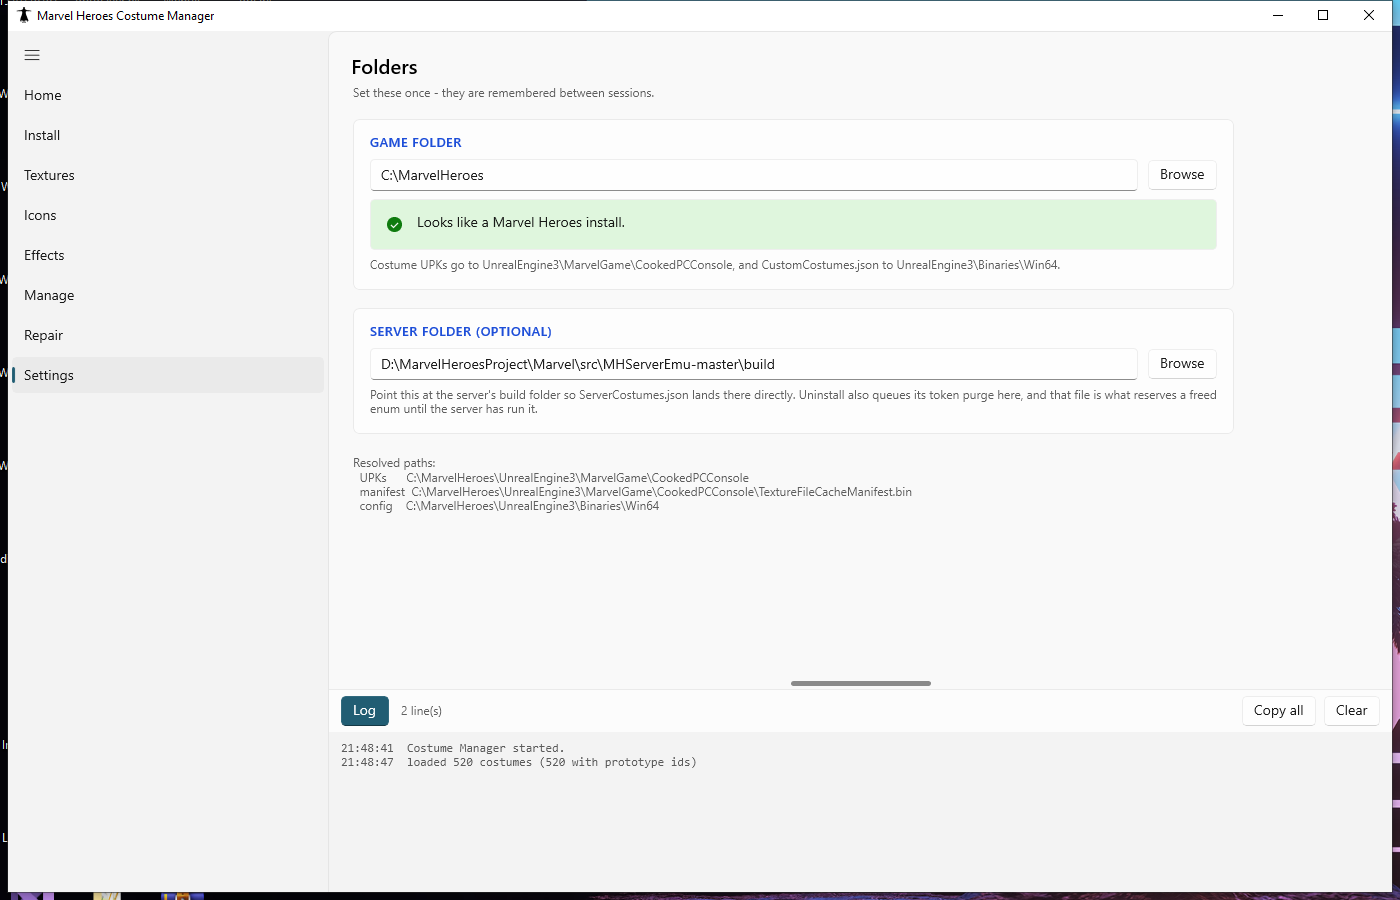
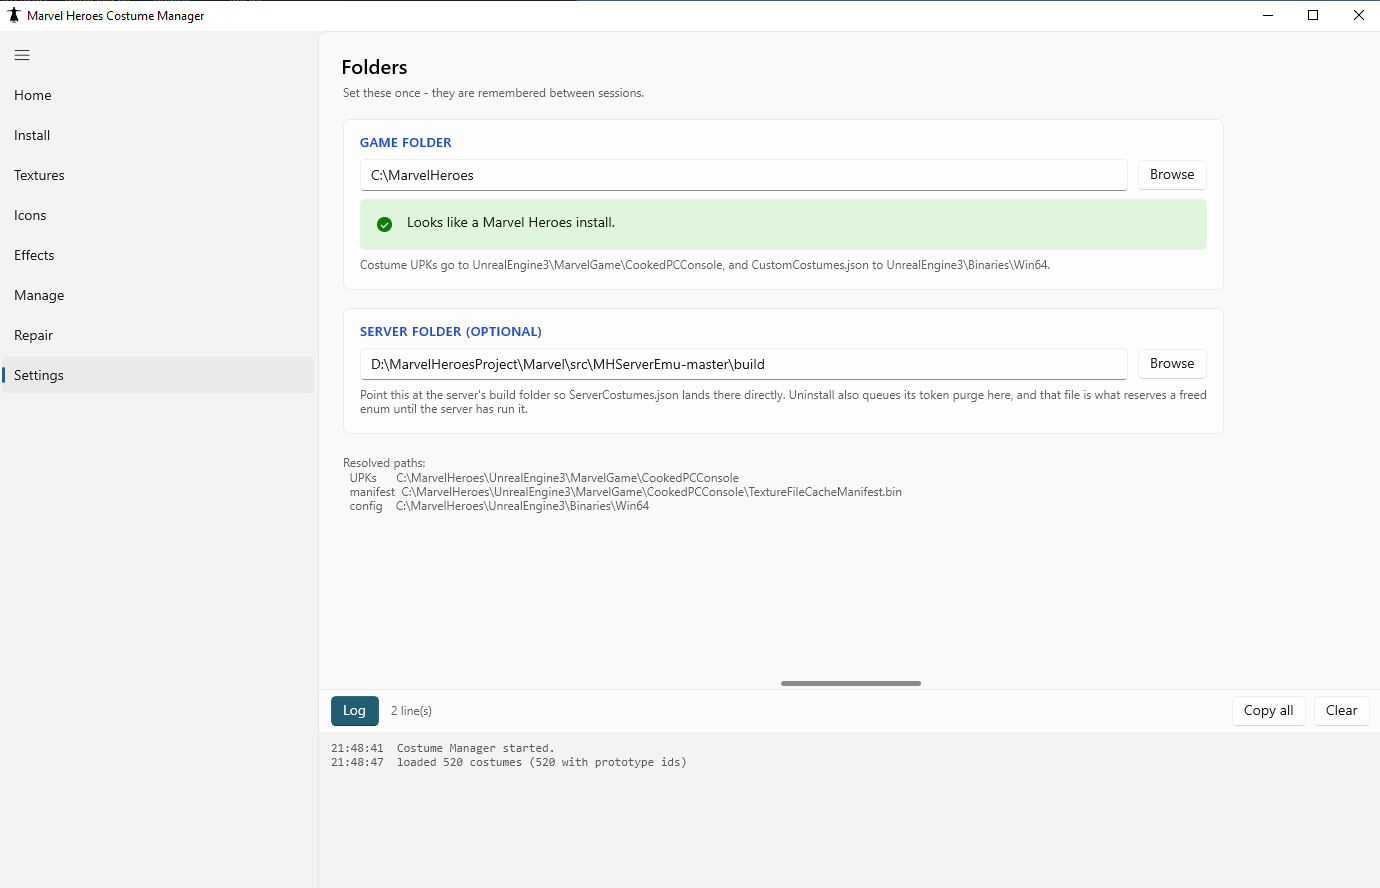
Inline the gameplay videos; cropped screenshots
<video> players for the three clips, sourced from this repo's own raw URLs so they play on the
GitHub page instead of being download links. Each carries a plain download link inside the
element as a fallback for anywhere the tag is not honoured.

Screenshots re-cropped to trim the window border and the desktop behind it.

diff --git a/docs/SHOWCASE.md b/docs/SHOWCASE.md
@@ -71,19 +71,24 @@ Screenshots show the tools. These show the thing that actually matters: **custom
 content coexisting in one live game**, and each custom costume's effects belonging only to the
 player wearing it.
 
-All three are 1080p. GitHub renders a repository `.mp4` as a link rather than an inline player,
-so download them, or attach them to a Release where they play in the browser.
-
 ### Two clients, Gambit — [`final_jubilee.mp4`](media/final_jubilee.mp4) · 43s
 
-Two game clients side by side. Each starts on the **donor** costume and swaps to the custom
-one, and each client's skill effects change with it — the custom costume's effects render for
-the player wearing it and for nobody else.
+<video src="https://github.com/MrGippy626/MHCostumeMod/raw/main/docs/media/final_jubilee.mp4" controls muted playsinline width="100%">
+  Your browser will not play this inline &mdash; <a href="media/final_jubilee.mp4">download final_jubilee.mp4</a>.
+</video>
+
+Two game clients side by side. Swaps to the custom costume (Jubilee), and each costume's skill 
+effects change with it — the custom costume's effects render for the player wearing it and 
+for nobody else.
 
 ### Two clients, Magneto / Polaris — [`final_polaris.mp4`](media/final_polaris.mp4) · 1m 17s
 
-The same demonstration on a second hero, with a longer look at the effects. Stock Magneto and
-custom Polaris cast side by side and each renders its own art.
+<video src="https://github.com/MrGippy626/MHCostumeMod/raw/main/docs/media/final_polaris.mp4" controls muted playsinline width="100%">
+  Your browser will not play this inline &mdash; <a href="media/final_polaris.mp4">download final_polaris.mp4</a>.
+</video>
+
+The same demonstration on a second hero, with a longer look at the effects. Magneto MarvelNow (Donor) and
+custom Magneto Polaris cast right after another and displaying the custom skill vfx.
 
 ### ⚑ Why these two are the whole proof
 
@@ -91,10 +96,6 @@ custom Polaris cast side by side and each renders its own art.
 the world changes "the caster's costume" and "the only custom costume in the process" at the
 same instant, so a one-client clip confirms both explanations equally and settles nothing.
 
-That is not a hypothetical. This project shipped a redirect that was **client-wide** — it made
-*every* player's effects follow whoever happened to be wearing a custom costume — and it passed
-a single-client test perfectly. Two clients is what caught it, and two clients is what these
-clips show.
 
 So what is on screen is three claims at once:
 
@@ -104,20 +105,12 @@ So what is on screen is three claims at once:
 
 ### Buying and wearing a costume — [`final_shop_tokens.mp4`](media/final_shop_tokens.mp4) · 1m 13s
 
+<video src="https://github.com/MrGippy626/MHCostumeMod/raw/main/docs/media/final_shop_tokens.mp4" controls muted playsinline width="100%">
+  Your browser will not play this inline &mdash; <a href="media/final_shop_tokens.mp4">download final_shop_tokens.mp4</a>.
+</video>
+
 A custom costume bought from the in-game store and equipped from the inventory. This is the
 part that shows custom content is a first-class item — it has a store entry, a price, an icon
 and a name, and it arrives as a token you equip like any other costume, not as a chat command.
 
 ---
-
-## Regenerating the screenshots
-
-```
-powershell -ExecutionPolicy Bypass -File tools\release\screenshots.ps1
-powershell -ExecutionPolicy Bypass -File tools\release\screenshots.ps1 -Only launcher
-```
-
-It launches each app, drives the navigation through UI Automation and captures each window.
-The desktop must be interactive and unlocked, and nothing may cover the windows while it runs —
-WinUI composes through DirectComposition, so `PrintWindow` returns black and the capture has to
-come from the screen.
